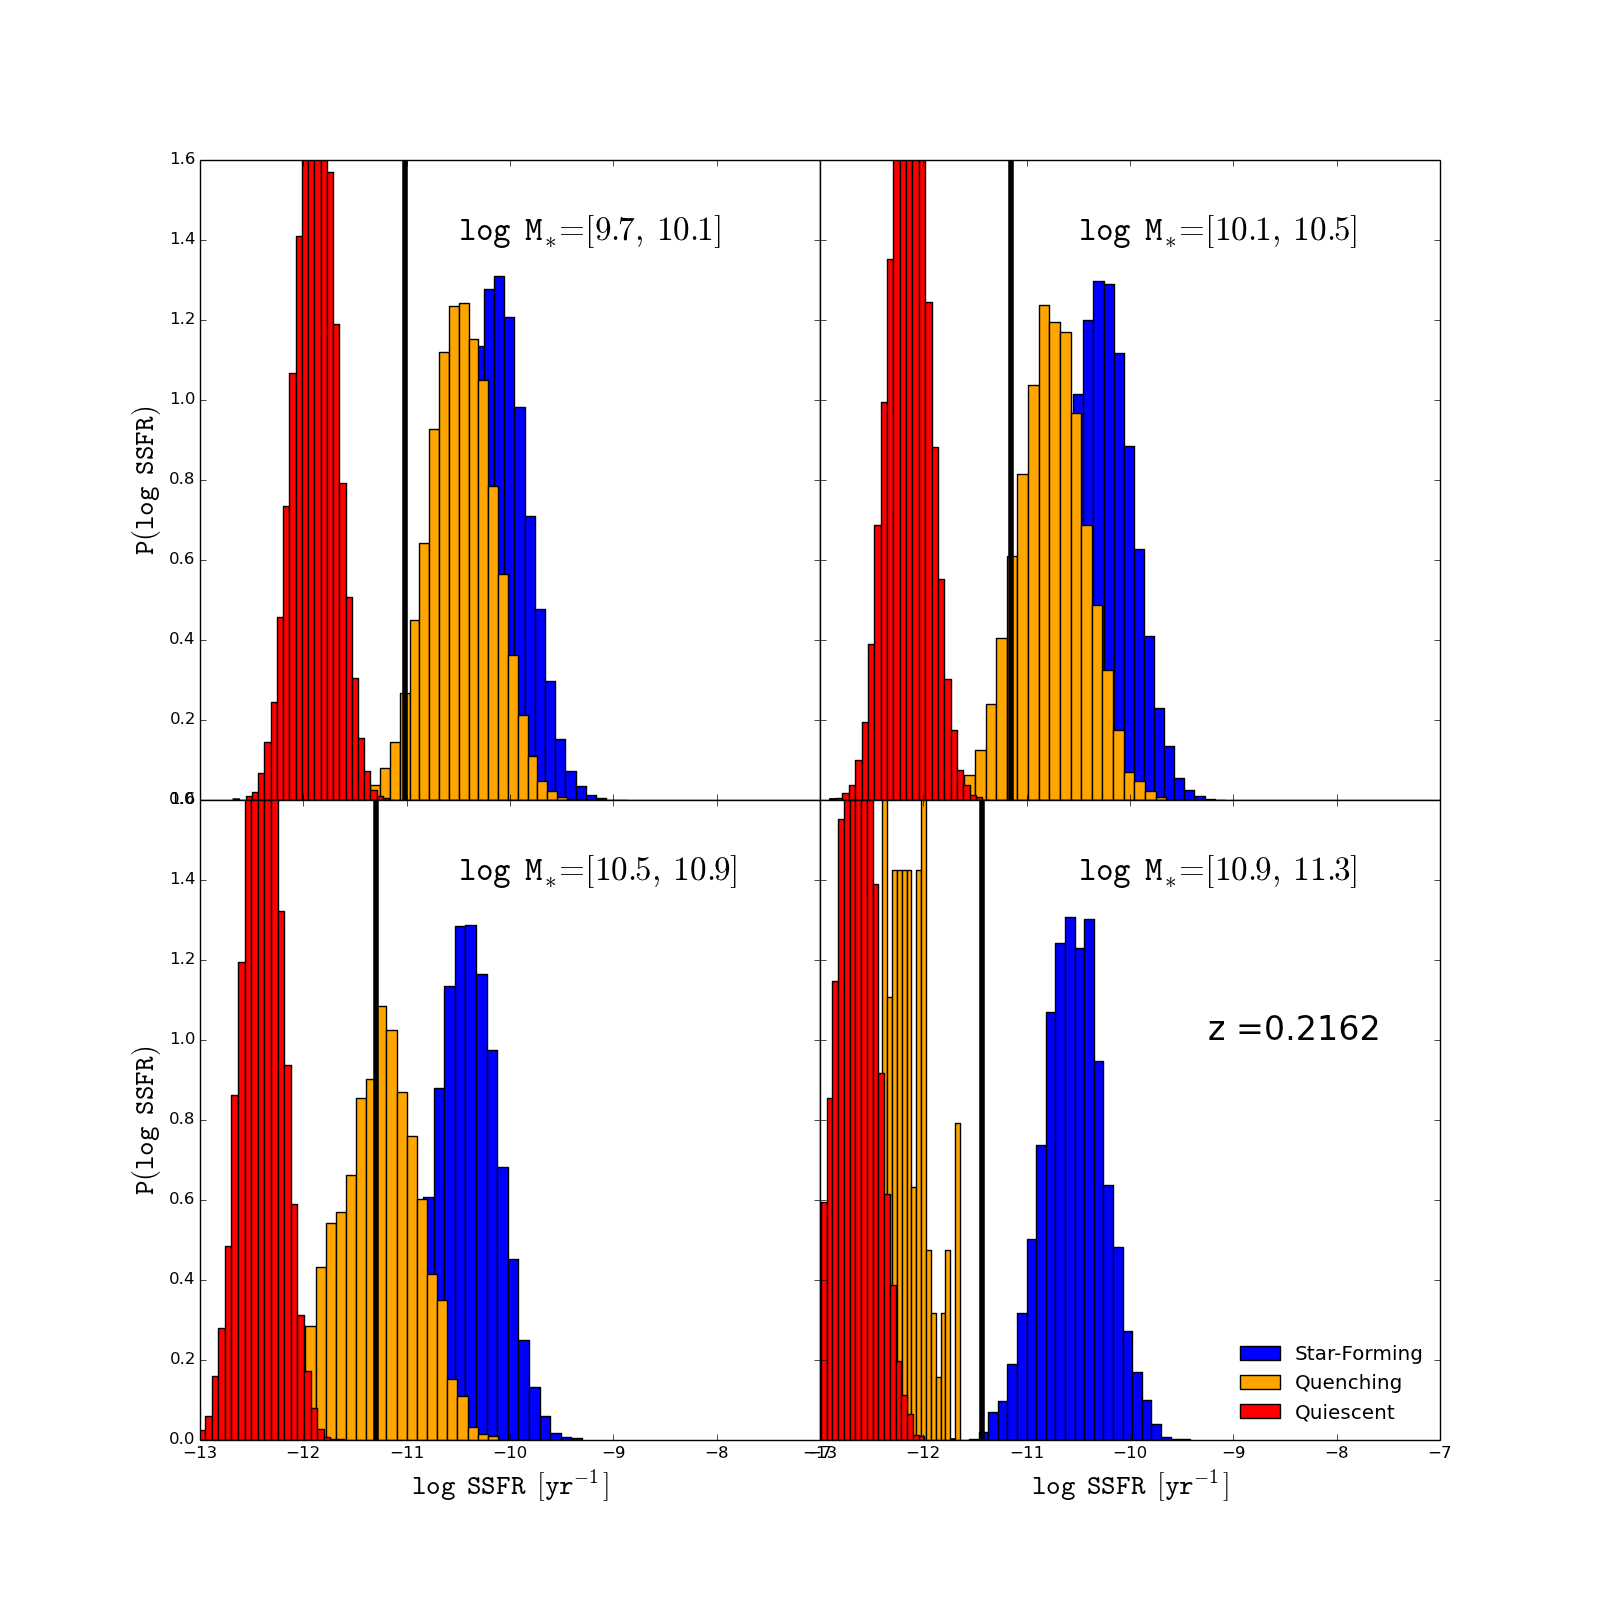
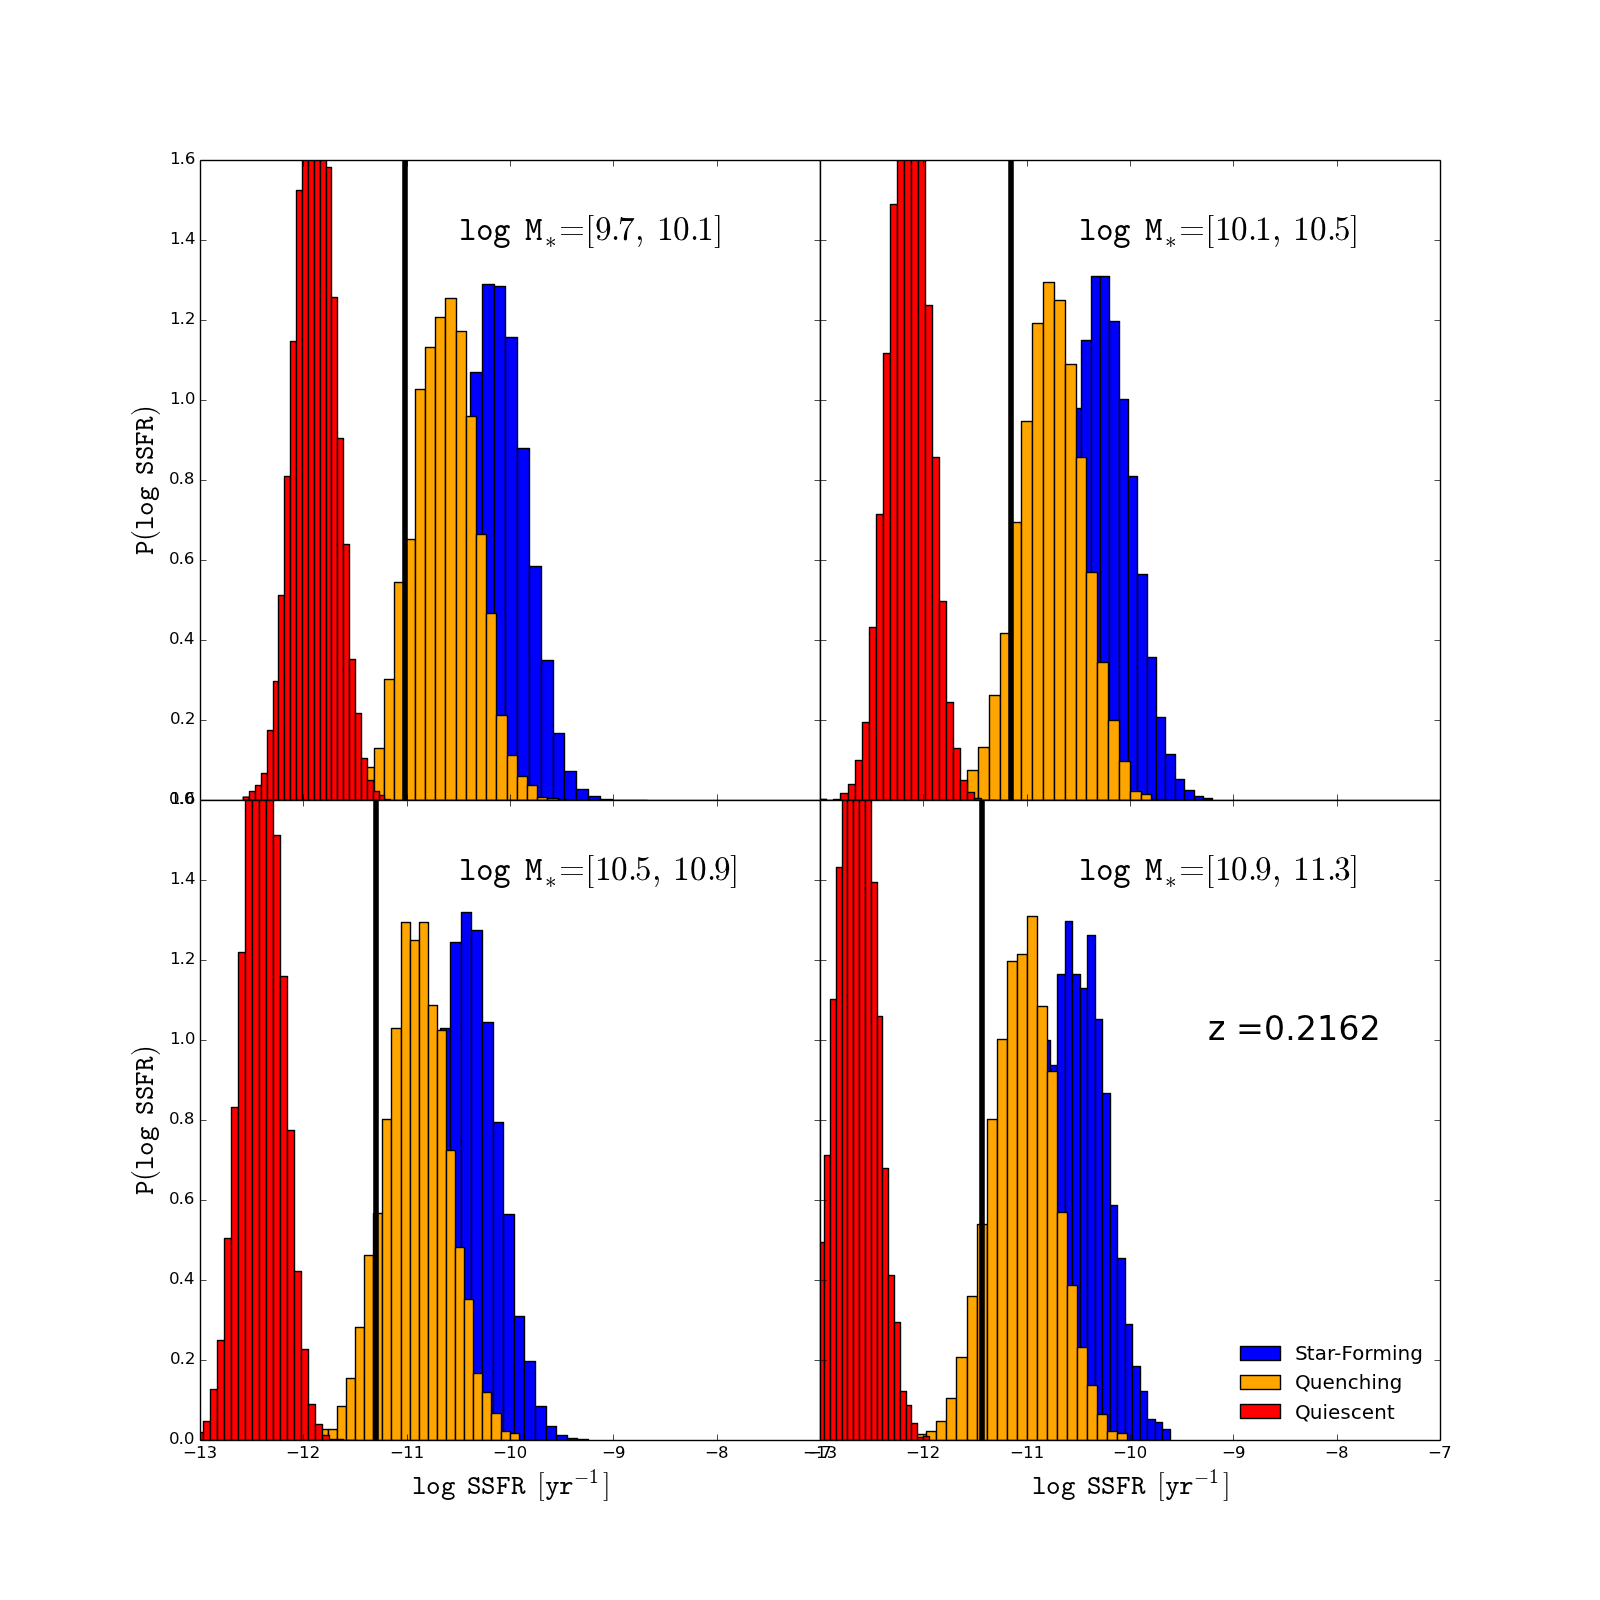
attempting to quantify where the evolve code goes wrong. Involves the quenching fraction

Changed region(s): [[0.5, 0.0938, 0.75, 0.9062], [0.125, 0.0938, 0.375, 0.9062]]

diff --git a/evolve.py b/evolve.py
@@ -380,7 +380,8 @@ def quenching_galaxies_massbin(cenque, delta_t_cosmic, m_bin_mid, indices, sf_in
     pred_ngal_q = np.float(np.sum(pred_sfqs == 'quiescent'))
 
     if pred_ngal_q == 0: 
-        raise ValueError("What the fuck") 
+        print 'Quenching time-scale is too long'
+        #raise ValueError("What the fuck") 
         
     # Quenching fraction evalutation
     alpha = 1.5
@@ -389,7 +390,10 @@ def quenching_galaxies_massbin(cenque, delta_t_cosmic, m_bin_mid, indices, sf_in
     if ngal2quench == ngal_sf: 
         fqing2 = 1.0
     else: 
-        fqing2 = np.float(ngal2quench)/np.float(pred_ngal_q)
+        try: 
+            fqing2 = np.float(ngal2quench)/np.float(pred_ngal_q)
+        except ZeroDivisionError: 
+            fqing2 = 1.0
 
     #if (m_bin_mid < 11.0) and (fqing2 > fqing1): 
     #    f_quenching = fqing1
@@ -404,7 +408,6 @@ def quenching_galaxies_massbin(cenque, delta_t_cosmic, m_bin_mid, indices, sf_in
         return []
     elif f_quenching > 1.0: 
         f_quenching = 1.0 
-        raise ValueError()
     
     quench_index = random.sample( 
             sf_indices, 
@@ -444,4 +447,4 @@ if __name__=='__main__':
     #blah = assign_sfr(blah)
     #blah.writeout()
     blah.readin()
-    blah = evolve_cq(blah, tau_prop = {'name': 'satellite'}, quiet=True)
+    blah = evolve_cq(blah, tau_prop = {'name': 'constant'}, quiet=True)

diff --git a/util/tau_quenching.py b/util/tau_quenching.py
@@ -48,6 +48,11 @@ def get_quenching_efold(mstar, tau_param = {'name': 'instant'}):
         tau = -0.57 * ( mstar - 9.78) + 0.8
         if np.min(tau) < 0.001:     
             tau[np.where( tau < 0.001 )] = 0.001
+    elif type == 'long':      # long quenching (for qa purposes)
+
+        n_arr = len(mstar) 
+        tau = np.array([2.0 for i in xrange(n_arr)]) 
+
     else: 
         raise NotImplementedError('asdf')
 

diff --git a/cenque.py b/cenque.py
@@ -247,7 +247,7 @@ class CenQue:
             fq_str +='_fq'
 
             # Tau specifier
-            if self.tau_prop['name'] in ('instant', 'constant', 'satellite'): 
+            if self.tau_prop['name'] in ('instant', 'constant', 'satellite', 'long'): 
                 tau_str = ''.join(['_', self.tau_prop['name'], 'tau'])
 
             # combine specifiers

diff --git a/plotting/test_evolve.py b/plotting/test_evolve.py
@@ -86,4 +86,4 @@ def test_quenching_population(
 
 if __name__=="__main__": 
     for i_snap in [12, 11, 10, 9, 8, 7, 6, 5, 4, 3, 2, 1]: 
-        test_quenching_population(n_snaps=[i_snap], tau_prop = {'name': 'satellite'})
+        test_quenching_population(n_snaps=[i_snap], tau_prop = {'name': 'constant'})
